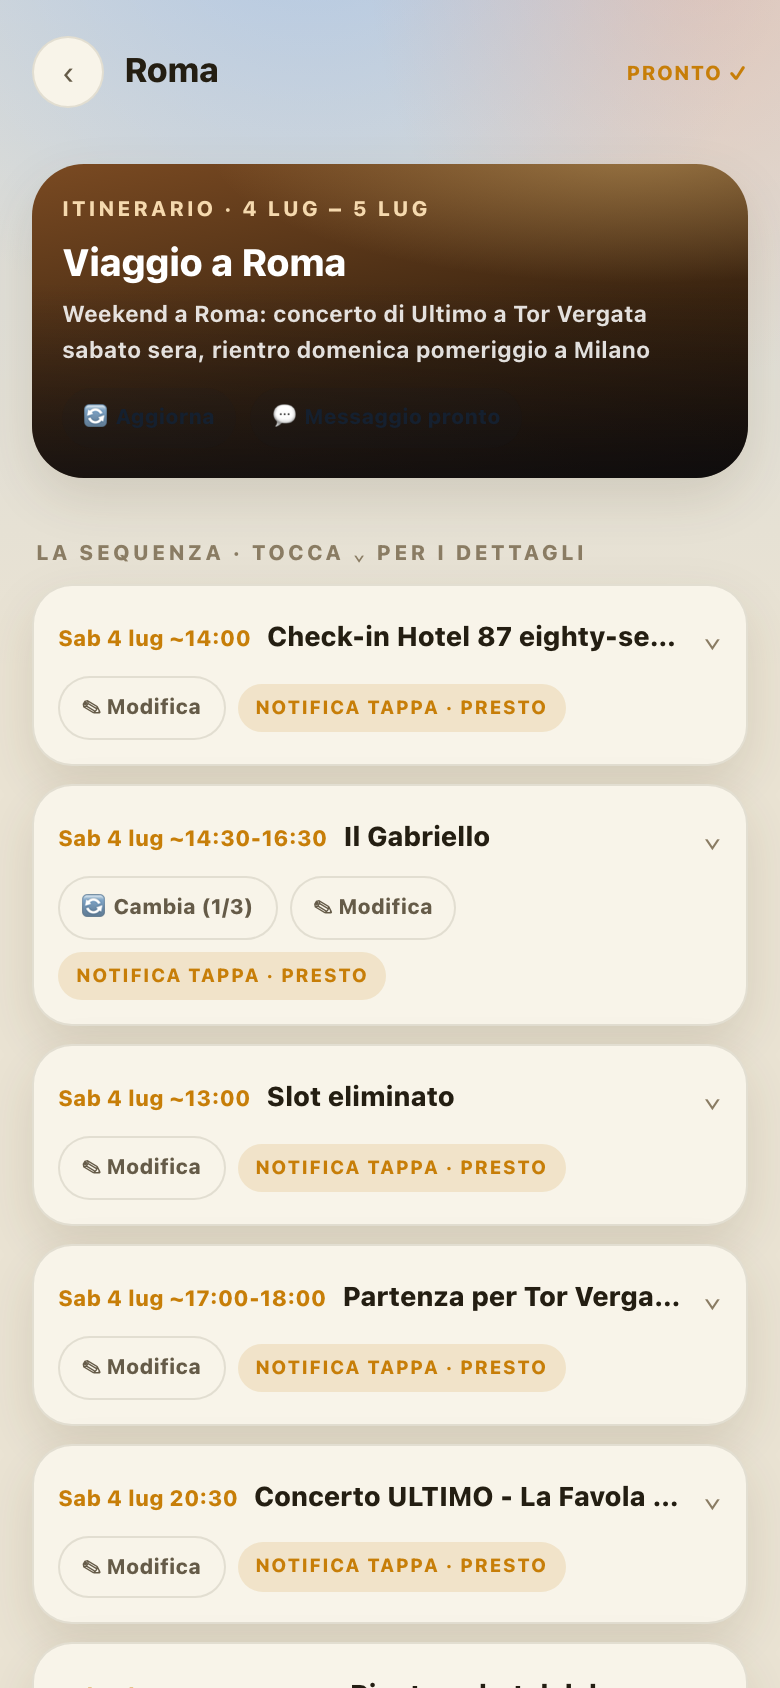
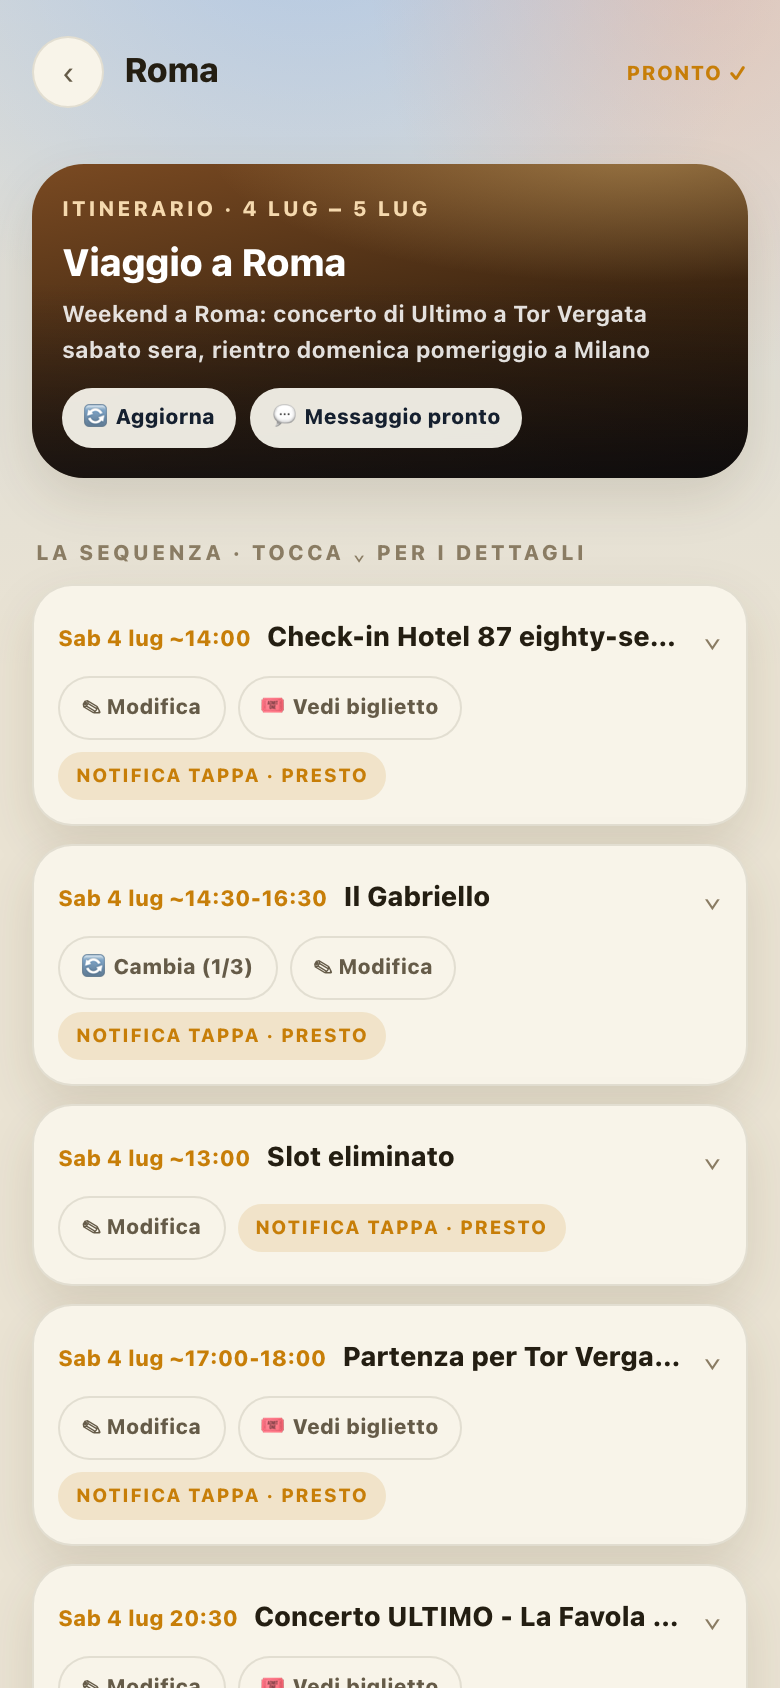
redesign(viaggio): chip "Vedi biglietto" (euristica slot→ticket)
Se il testo dello slot nomina un tipo evento (treno/volo/concerto/hotel) e il
viaggio ha un ticket di quel tipo → chip "🎟 Vedi biglietto" che apre il
pannello evento via /?v2#ev=<id> (KeikoPreview lo apre dall'hash). Nessun
match = nessun chip (mai chip morti).

Claude-Session: https://claude.ai/code/session_01TJEM4HzNgeZKCWFzSeN2Kg

Changed region(s): [[0.0308, 0.4005, 0.9538, 1.0], [0.0615, 0.2156, 0.6769, 0.2773]]

diff --git a/app/viaggio/ViaggioView.tsx b/app/viaggio/ViaggioView.tsx
@@ -3,7 +3,7 @@
 import { useEffect, useRef, useState } from "react";
 import { useRouter } from "next/navigation";
 import KeikoShell, { useKeikoToast } from "@/app/components/keiko/KeikoShell";
-import type { TripPlanRow } from "@/lib/supabase";
+import type { TripPlanRow, TicketDetail } from "@/lib/supabase";
 
 /* ------------------------------------------------------------------ *
  * /viaggio — vista Itinerario (v2.3). Portata 1:1 da #tripView del
@@ -49,12 +49,21 @@ const smooth = (): ScrollBehavior =>
 
 const oneLine: React.CSSProperties = { overflow: "hidden", textOverflow: "ellipsis", whiteSpace: "nowrap" };
 
-export default function ViaggioView({ trips }: { trips: TripPlanRow[] }) {
+// Euristica slot→biglietto: se il testo dello slot nomina un tipo evento e il
+// viaggio ha un ticket di quel tipo → link "Vedi biglietto". Nessun match = niente chip.
+const TYPE_KW: [string, string][] = [["treno", "train"], ["freccia", "train"], ["volo", "flight"], ["aereo", "flight"], ["concerto", "concert"], ["hotel", "hotel"], ["check-in", "hotel"], ["check in", "hotel"]];
+function matchTicket(step: Slot, tickets: TicketDetail[]): TicketDetail | undefined {
+  const hay = `${step.quando ?? ""} ${step.cosa ?? ""} ${step.opzioni?.[0]?.cosa ?? ""}`.toLowerCase();
+  for (const [kw, type] of TYPE_KW) if (hay.includes(kw)) { const t = tickets.find((x) => x.type?.toLowerCase() === type); if (t) return t; }
+  return undefined;
+}
+
+export default function ViaggioView({ trips, tickets }: { trips: TripPlanRow[]; tickets: TicketDetail[] }) {
   // Titolo del guscio = città del viaggio più vicino (i piani sono ordinati per data).
   const title = trips.length > 0 ? trips[0].city : "Itinerario";
   return (
     <KeikoShell title={title} badge={trips.length > 0 ? "PRONTO ✓" : undefined} backHref="/?v2">
-      {trips.length === 0 ? <EmptyState /> : trips.map((t) => <TripBlock key={t.id} trip={t} />)}
+      {trips.length === 0 ? <EmptyState /> : trips.map((t) => <TripBlock key={t.id} trip={t} tickets={tickets} />)}
     </KeikoShell>
   );
 }
@@ -70,7 +79,7 @@ function EmptyState() {
   );
 }
 
-function TripBlock({ trip }: { trip: TripPlanRow }) {
+function TripBlock({ trip, tickets }: { trip: TripPlanRow; tickets: TicketDetail[] }) {
   const router = useRouter();
   const toast = useKeikoToast();
   const plan = (trip.plan ?? {}) as Plan;
@@ -140,9 +149,10 @@ function TripBlock({ trip }: { trip: TripPlanRow }) {
       {slot.length > 0 && (
         <>
           <div className="agLbl">La sequenza &middot; tocca &#8964; per i dettagli</div>
-          {slot.map((s, i) => (
-            <SlotRow key={i} step={s} clusterKey={trip.cluster_key} index={i} />
-          ))}
+          {slot.map((s, i) => {
+            const tripTickets = tickets.filter((t) => trip.ticket_ids?.includes(t.id));
+            return <SlotRow key={i} step={s} clusterKey={trip.cluster_key} index={i} ticket={matchTicket(s, tripTickets)} />;
+          })}
         </>
       )}
 
@@ -167,7 +177,7 @@ function TripBlock({ trip }: { trip: TripPlanRow }) {
 
 /* Una tappa: .sh (orario + nome + ⌄) · dettaglio espandibile · .sa con
    Cambia (alternative locali), Modifica (edit-slot via Claude), tbc. */
-function SlotRow({ step, clusterKey, index }: { step: Slot; clusterKey: string; index: number }) {
+function SlotRow({ step, clusterKey, index, ticket }: { step: Slot; clusterKey: string; index: number; ticket?: TicketDetail }) {
   const router = useRouter();
   const toast = useKeikoToast();
   // Retro-compatibilità: senza "opzioni", uso cosa/nota come opzione unica.
@@ -284,6 +294,9 @@ function SlotRow({ step, clusterKey, index }: { step: Slot; clusterKey: string; 
         <button className="chipA dk" onClick={() => setEditing((e) => !e)}>
           &#9998; Modifica
         </button>
+        {ticket && (
+          <a className="chipA dk" href={`/?v2#ev=${ticket.id}`}>&#127903; Vedi biglietto</a>
+        )}
         <span
           className="tbc"
           role="button"

diff --git a/app/components/keiko/KeikoPreview.tsx b/app/components/keiko/KeikoPreview.tsx
@@ -133,7 +133,12 @@ export default function KeikoPreview({ live }: { live?: LiveHome }) {
   useEffect(() => {
     const noop = () => {};
     document.addEventListener("touchstart", noop, { passive: true });
-    try { if (new URLSearchParams(window.location.search).has("debug")) setDebug(true); } catch { /* noop */ }
+    try {
+      if (new URLSearchParams(window.location.search).has("debug")) setDebug(true);
+      // apertura pannello evento da altra pagina: /?v2#ev=<ticketId> (es. "Vedi biglietto" da /viaggio)
+      const m = window.location.hash.match(/^#ev=(.+)$/);
+      if (m) { setEvKey(decodeURIComponent(m[1])); history.replaceState(null, "", window.location.pathname + window.location.search); }
+    } catch { /* noop */ }
     return () => document.removeEventListener("touchstart", noop);
   }, []);
 

diff --git a/app/viaggio/page.tsx b/app/viaggio/page.tsx
@@ -1,4 +1,4 @@
-import { getReadyTripPlans } from "@/lib/supabase";
+import { getReadyTripPlans, getTicketsByIds } from "@/lib/supabase";
 import ViaggioView from "./ViaggioView";
 
 // Sempre dati freschi (come la home): i piani cambiano quando arricchisci.
@@ -6,5 +6,8 @@ export const dynamic = "force-dynamic";
 
 export default async function ViaggioPage() {
   const trips = await getReadyTripPlans();
-  return <ViaggioView trips={trips} />;
+  // biglietti dei viaggi: per l'euristica slot→ticket ("Vedi biglietto").
+  const ids = [...new Set(trips.flatMap((t) => t.ticket_ids ?? []))];
+  const tickets = ids.length ? await getTicketsByIds(ids) : [];
+  return <ViaggioView trips={trips} tickets={tickets} />;
 }